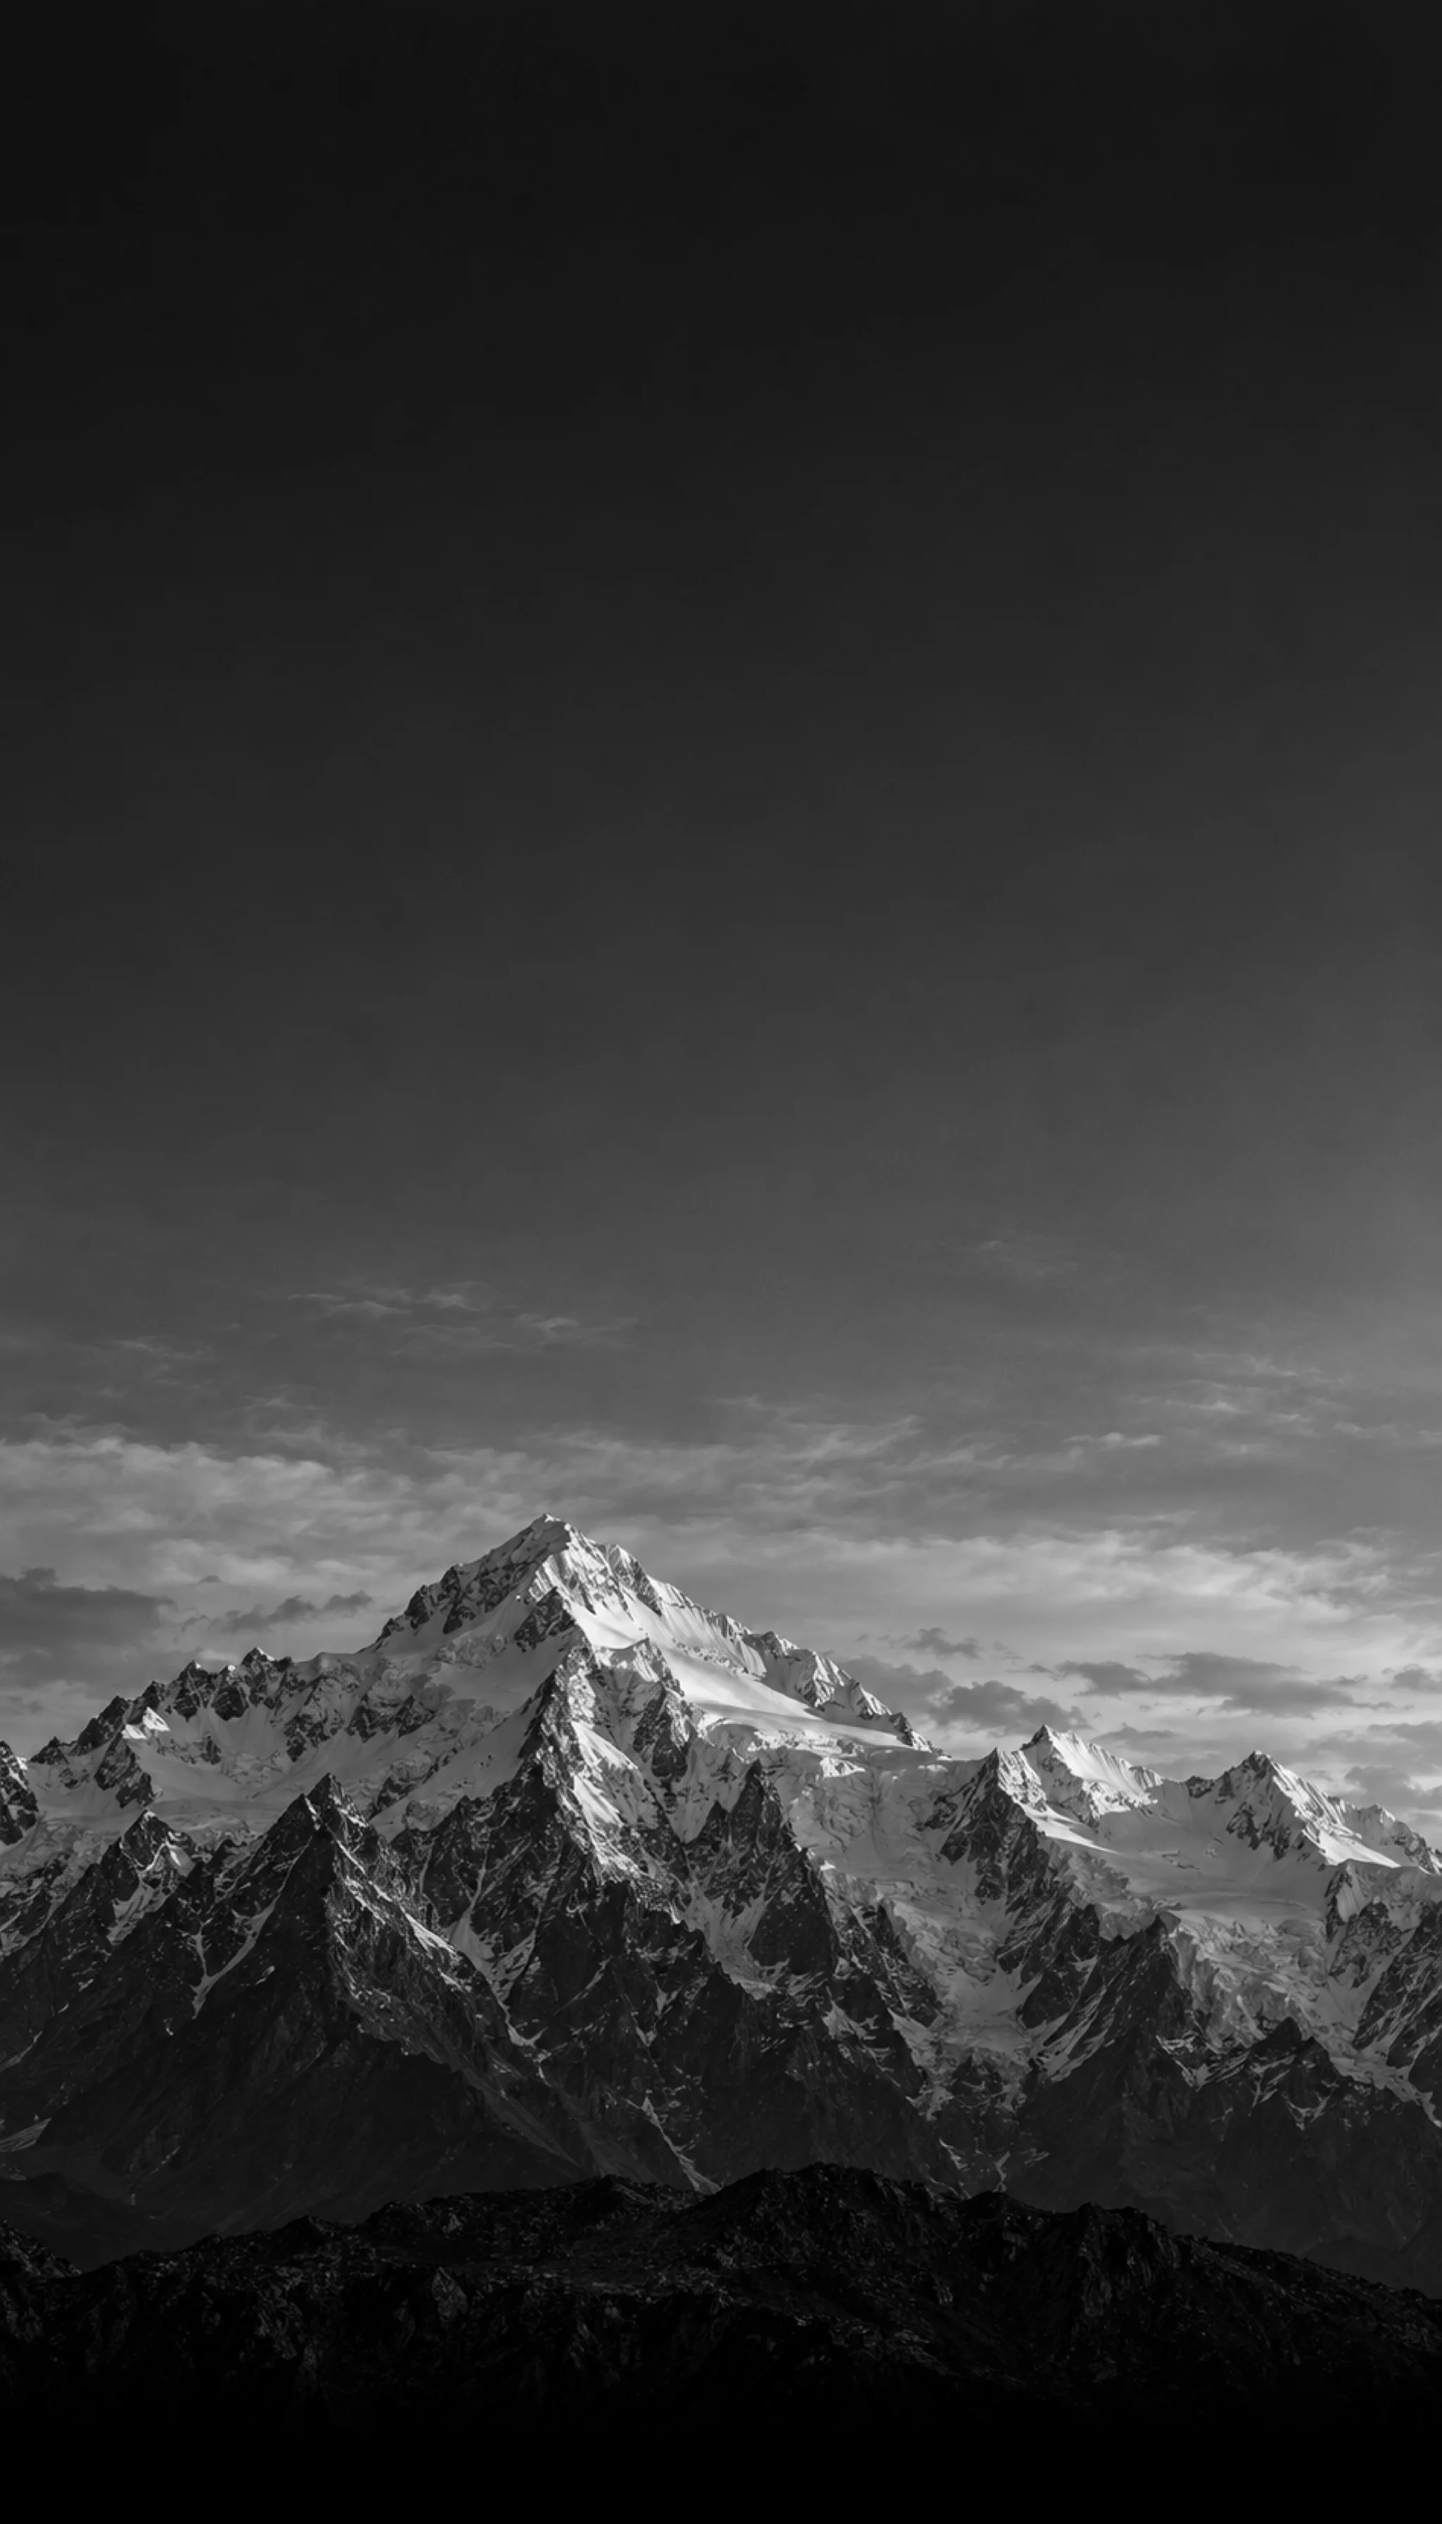
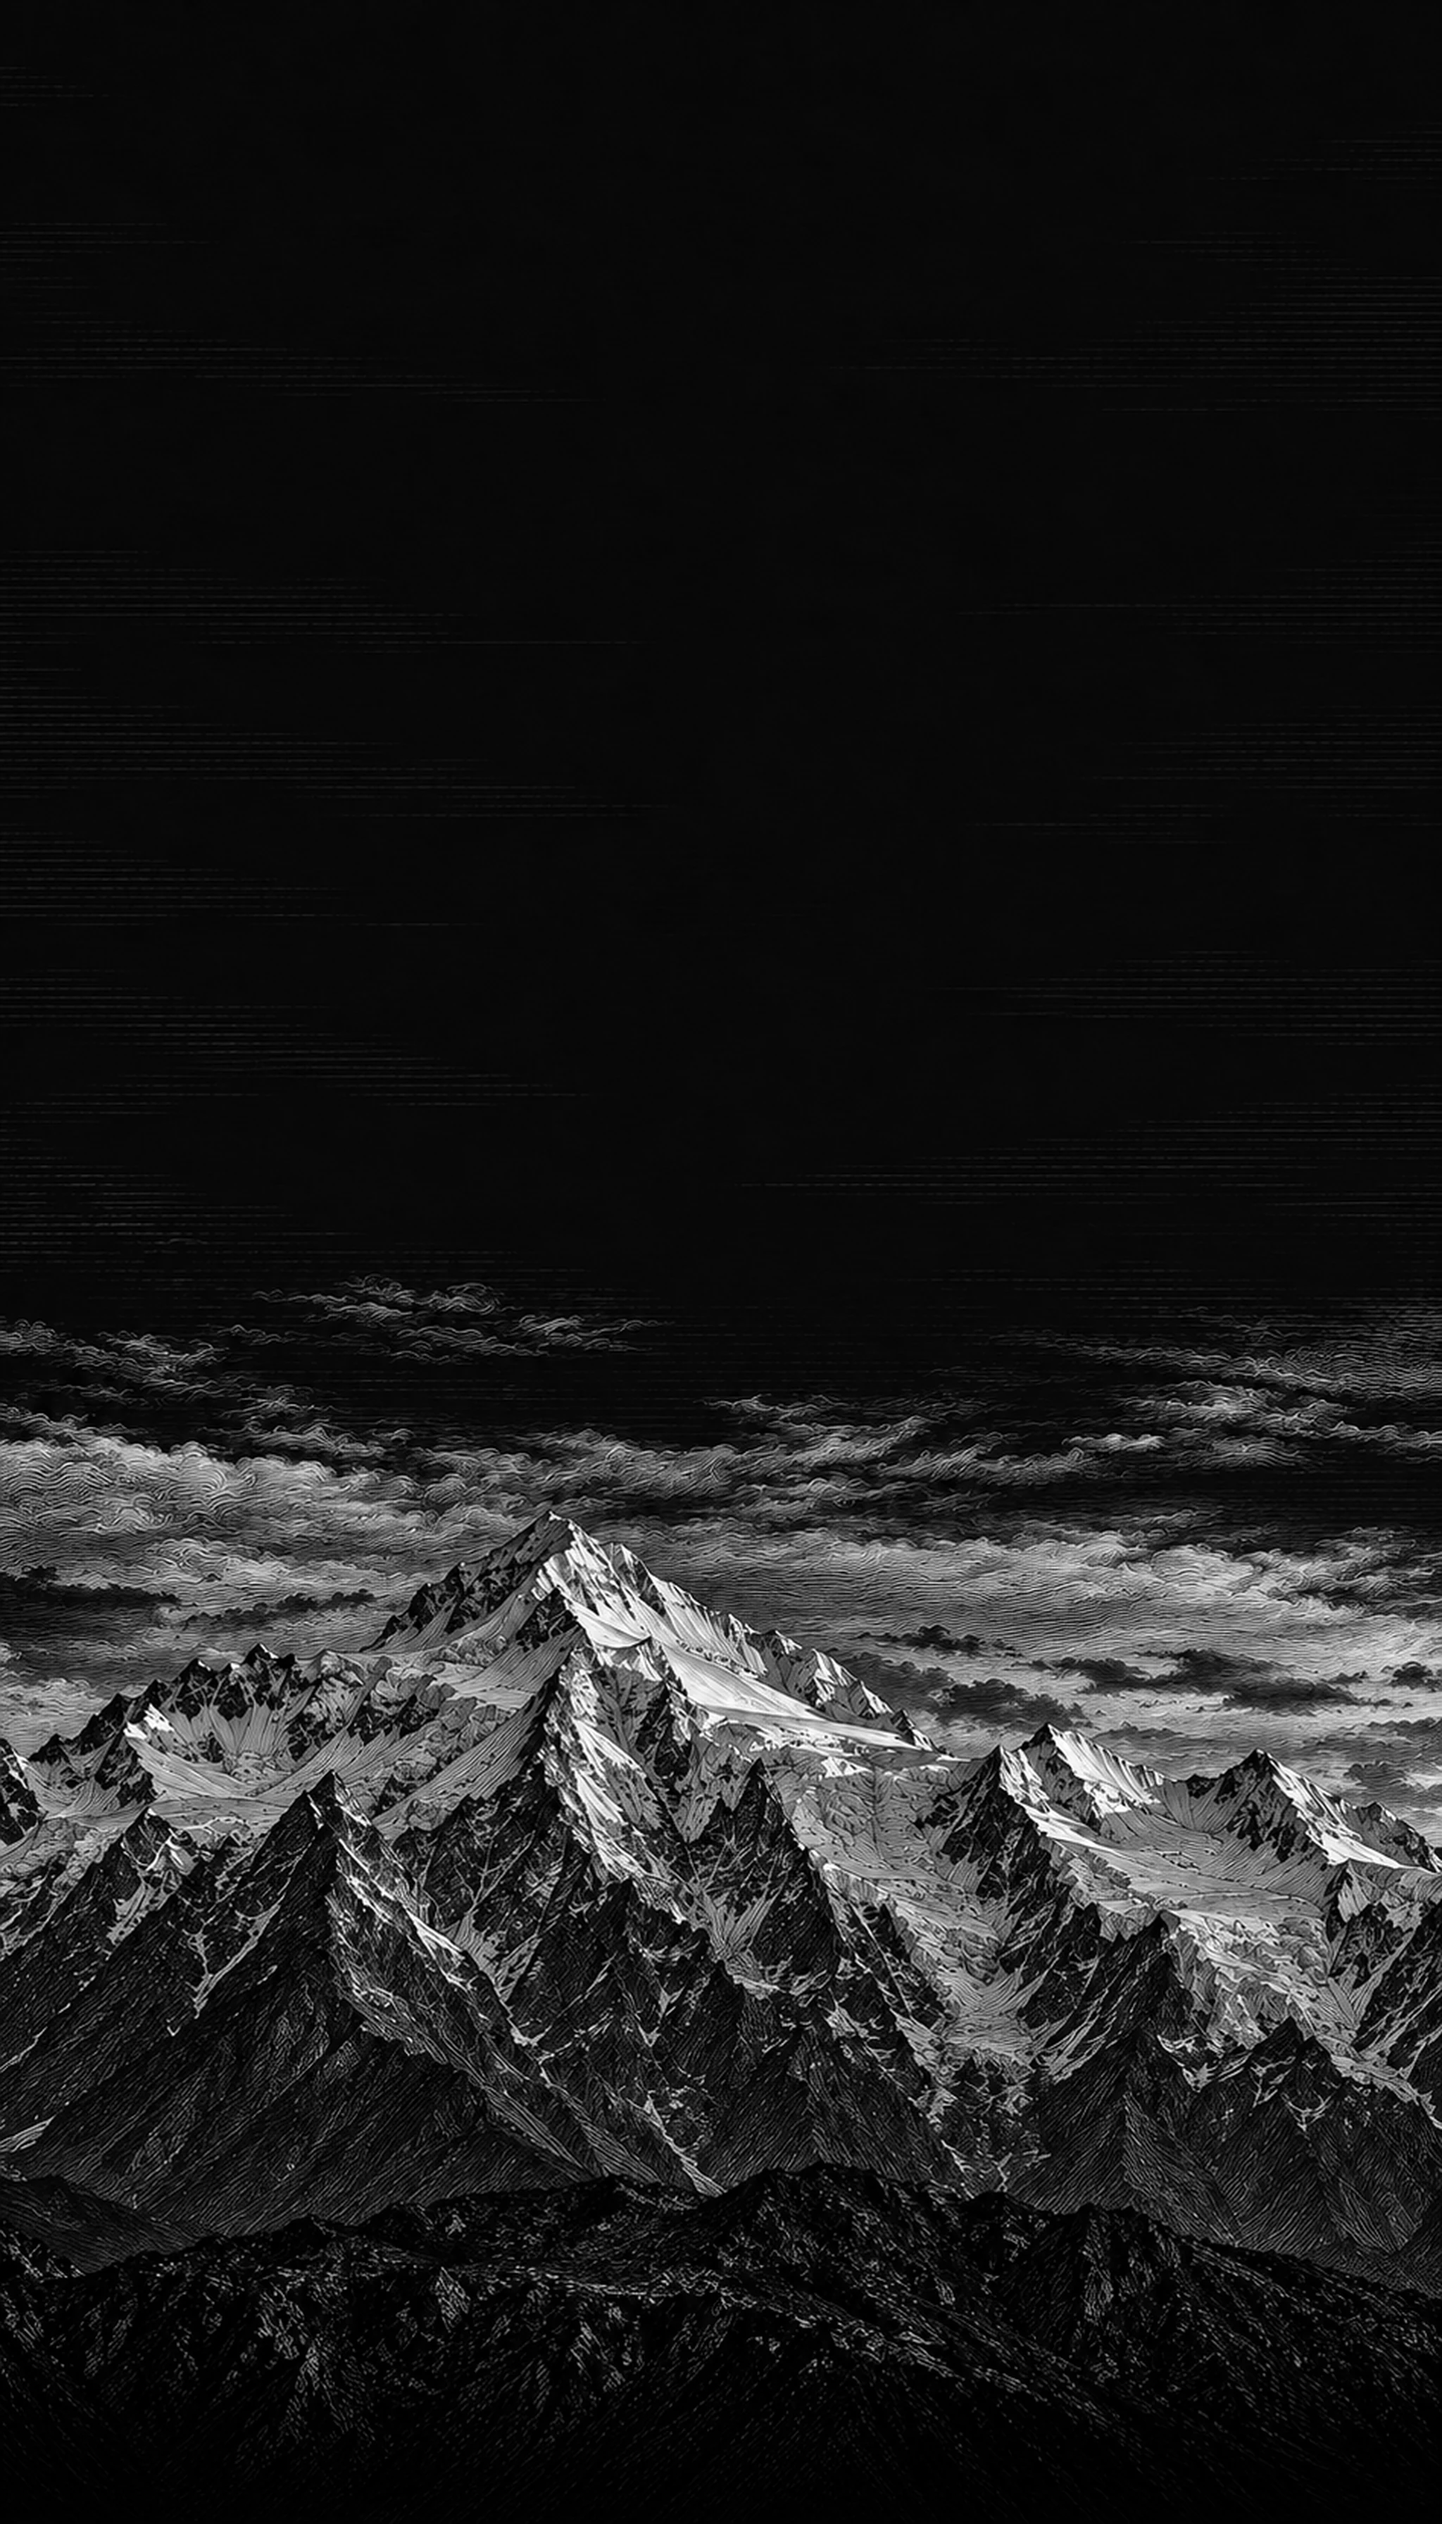
Hero-Berg als Kupferstich in der Technik des Finale-Himmels (Codex), zeichnet sich beim Öffnen nach Helligkeit

diff --git a/src/components/landing/scenes/intro/hero.ts b/src/components/landing/scenes/intro/hero.ts
@@ -42,7 +42,7 @@ vec3 outc(float v){ v += (hash(gl_FragCoord.xy) - .5) * .02; return vec3(clamp(v
 const SCENE = `${HEAD}
 uniform float uMix, uLook, uK, uSt; uniform vec4 uO[8]; uniform vec3 uC; uniform vec3 uH;
 uniform sampler2D uImg, uMsk; uniform float uFoto;
-// Foto-Berg: Schwarzweiß-Fotografie (Codex) als Kamerafahrt. Bildausschnitt deckend, im Hochformat enger um den
+// Berg: Kupferstich (Codex, Technik wie der Himmel des Finales) als Kamerafahrt. Bildausschnitt deckend, im Hochformat enger um den
 // Gipfel; der Blick nach oben (uLook) schiebt den Ausschnitt bis in den dunklen Himmel. Wolken ziehen leicht, der
 // Zeiger ist Licht auf dem Schnee, die Marke steht als Sonne im Himmel.
 const float IMGA = 2048. / 3584.;
@@ -56,6 +56,8 @@ float fotoBerg(vec2 uv){
   float v = texture(uImg, iu + wv).r;
   // Tonkurve wie Schwarzweiß-Abzug: tiefes Schwarz im Fels, Schnee bleibt hell; unten dunkler Grund für die Schrift
   v = smoothstep(.04, .97, pow(v, 1.18)); vec2 sv = gl_FragCoord.xy / uR;
+  // Beim Öffnen zeichnet sich der Stich nach Helligkeit: erst die hellen Striche, dann die feinen
+  float th = 1.05 - uFoto * 1.1; v *= smoothstep(th, th + .18, v + hash(floor(gl_FragCoord.xy / 2.)) * .05);
   v *= mix(1., .5, smoothstep(.42, 0., sv.y) * (1. - smoothstep(.0, .25, uLook)));
   // Zeiger als Licht: der Schnee unter ihm hellt weich auf, Fels bleibt dunkel
   vec2 sp = mix(vec2(uM.x * .7, .3 + uM.y * .1), vec2(uM.x * .04, uM.y * .03), uLook); float sc = mix(.15, .52, uLook * uLook);
@@ -64,7 +66,7 @@ float fotoBerg(vec2 uv){
   v += (1. - msk) * exp(-max(d, 0.) * 16. / (1. + uLook * 2.)) * .07 * (1. + uLook * 3.);
   return clamp(v + (hash(gl_FragCoord.xy + fract(T) * 61.) - .5) * .025, 0., 1.); }
 float mountain(vec2 uv){
-  if(uFoto > .999) return fotoBerg(uv);
+  if(uFoto > .001) return fotoBerg(uv);
   float pitch = mix(-.06, .55, uLook); vec3 ro = cam(.045, pitch, 1.85, 2.4), rd = ray(uv);
   vec2 sp = mix(vec2(uM.x * .7, .3 + uM.y * .1), vec2(uM.x * .04, uM.y * .03), uLook); float sc = mix(.15, .52, uLook * uLook);
   vec3 L = normalize(RT * (sp.x * 1.5 + .9) + UP * .42 - FW * .2);
@@ -74,7 +76,6 @@ float mountain(vec2 uv){
 float alb = mix(rockA(p) * .5, .95, sn); float amb = .5 + .5 * n.y; v = alb * (dif * 1.25 + amb * .07); v = v / (v + .55) * 1.5; v = mix(v, uSt < .5 ? .9 : .34, 1. - exp(-t * .035)); if(abs(uSt - 2.) < .5){ float cc = p.y * 15.; float ww = max(fwidth(cc), .04); float ln = 1. - smoothstep(ww * .6, ww * 1.8, abs(fract(cc) - .5)); v = ln * (.3 + .9 * v) + v * .06; } }
   else { float d = sunD(uv, sp, sc); v = mix(v, uSt < .5 ? .4 : .88, smoothstep(.002, -.002, d)); v += exp(-max(d, 0.) * 16. / (1. + uLook * 2.)) * .08 * (1. + uLook * 3.); }
   if(uSt < .5 && uLook < .7){ float ff = 1. - uLook / .7; for(int L2 = 0; L2 < 2; L2++){ float fl = float(L2); float sx = uv.x * (10. + fl * 6.) + T * (.05 + fl * .08) + fl * 3.7; float id = floor(sx); float fx = fract(sx) - .5; float hgt = (.1 + .12 * hash(vec2(id, fl))) * (1. + fl * .5); float base = -.36 - fl * .08; float tri = base + hgt - abs(fx) * hgt * 2.6; if(uv.y < tri){ float br = step(.5, fract((uv.y - base) * 60. + abs(fx) * 8.)); v = mix(v, .1 + .22 * br, ff); } } }
-  if(uFoto > .001) v = mix(v, fotoBerg(uv), uFoto);
   if(abs(uSt - 4.) < .5){ for(int L3 = 0; L3 < 2; L3++){ float fl = float(L3); vec2 q = uv * vec2(1.6, 2.6) + vec2(T * (.02 + fl * .02) + fl * 4., fl * .7); float c = fbm(q) + fbm(q * 2.3) * .35; float band = smoothstep(.16, .02, abs(uv.y - (-.02 - fl * .2))); float m = smoothstep(.6, .68, c * band + .1); float fp = sin(fbm(q * 5. + c * 2.) * 90.); float tone = .82 * (.55 + .45 * step(0., fp)) * (.6 + .4 * smoothstep(.6, .9, c)); v = mix(v, tone, m * (1. - uLook)); } }
   return v; }
 float omap(vec3 p){ float d = 1e5; for(int i = 0; i < 8; i++) d = smin(d, length(p - uO[i].xyz) - uO[i].w, uK); return max(d, -(length(p.xy - uH.xy) - uH.z)); }
@@ -439,7 +440,7 @@ export function createHero(cv: HTMLCanvasElement) {
 		// Berg-Phase (ruhiges Bild): feinerer Szenenpuffer, die Grate zeigen sonst Treppenstufen; die adaptive Stufe (ad) fängt Last ab
 		const fk = mx < 0.05 ? 0.78 : 0.42;
 		// Foto-Berg: nur Texturzugriffe, deshalb in voller Backing-Auflösung (scharfes Gestein und Schnee)
-		const foto = G.fotoA > 0.999 && mx < 0.05;
+		const foto = G.fotoA > 0.001 && mx < 0.05;
 		const fw = allDots
 			? Math.ceil(w / cs)
 			: foto
@@ -470,7 +471,7 @@ export function createHero(cv: HTMLCanvasElement) {
 		gl.uniform3f(U.uH, hx, hy, hr);
 		fotoTex(gl);
 		if (G.fotoTx) {
-			G.fotoA = c.reduced ? 1 : Math.min(1, G.fotoA + c.dt / 0.6);
+			G.fotoA = c.reduced ? 1 : Math.min(1, G.fotoA + c.dt / 1.8);
 			gl.activeTexture(gl.TEXTURE1);
 			gl.bindTexture(gl.TEXTURE_2D, G.fotoTx[0]);
 			gl.uniform1i(U.uImg, 1);
